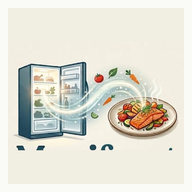
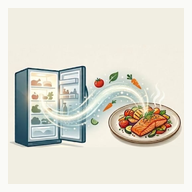
auto-commit for 6dbc4ed6-0b10-4385-865f-c446162cf597

Changed region(s): [[0.0625, 0.3125, 0.9688, 0.8125], [0.4688, 0.75, 0.5938, 0.7812]]

diff --git a/frontend/src/pages/Home.jsx b/frontend/src/pages/Home.jsx
@@ -2,8 +2,7 @@ import { Link } from "react-router-dom";
 import { Camera, PencilLine, Sparkles, Clock, ShoppingBasket } from "lucide-react";
 import { Button } from "../components/ui/button";
 
-const HERO_IMG =
-  "https://images.unsplash.com/photo-1590779033100-9f60a05a013d?crop=entropy&cs=srgb&fm=jpg&ixid=M3w3NTY2NjZ8MHwxfHNlYXJjaHwyfHxmcmVzaCUyMHZlZ2V0YWJsZXMlMjBjb29raW5nJTIwaW5ncmVkaWVudHN8ZW58MHx8fHwxNzgxODc1OTI1fDA&ixlib=rb-4.1.0&q=85";
+const HERO_IMG = "/manifeast-mark.png";
 
 export default function Home() {
   return (
@@ -48,11 +47,12 @@ export default function Home() {
         <div className="relative">
           <div className="absolute -top-6 -left-6 w-32 h-32 rounded-full bg-brand-accent/30 blur-3xl" />
           <div className="absolute -bottom-6 -right-6 w-44 h-44 rounded-full bg-brand-secondary/20 blur-3xl" />
-          <div className="relative overflow-hidden rounded-[2rem] border border-brand-line shadow-[0_20px_60px_-30px_rgba(45,48,71,0.35)]">
+          <div className="relative overflow-hidden rounded-[2rem] border border-brand-line shadow-[0_20px_60px_-30px_rgba(45,48,71,0.35)] bg-gradient-to-br from-[#FAF6EC] via-[#F4EFE2] to-[#EDE6D2]">
             <img
               src={HERO_IMG}
-              alt="Fresh ingredients"
-              className="w-full h-[420px] md:h-[520px] object-cover"
+              alt="From your fridge to a plated meal"
+              className="w-full h-[420px] md:h-[520px] object-contain p-8 md:p-12"
+              style={{ mixBlendMode: "multiply" }}
             />
             <div className="absolute bottom-5 left-5 right-5 bg-white/85 backdrop-blur-md border border-white/60 rounded-2xl p-4 flex items-center gap-3">
               <div className="w-10 h-10 rounded-full bg-brand-primary/15 flex items-center justify-center">
